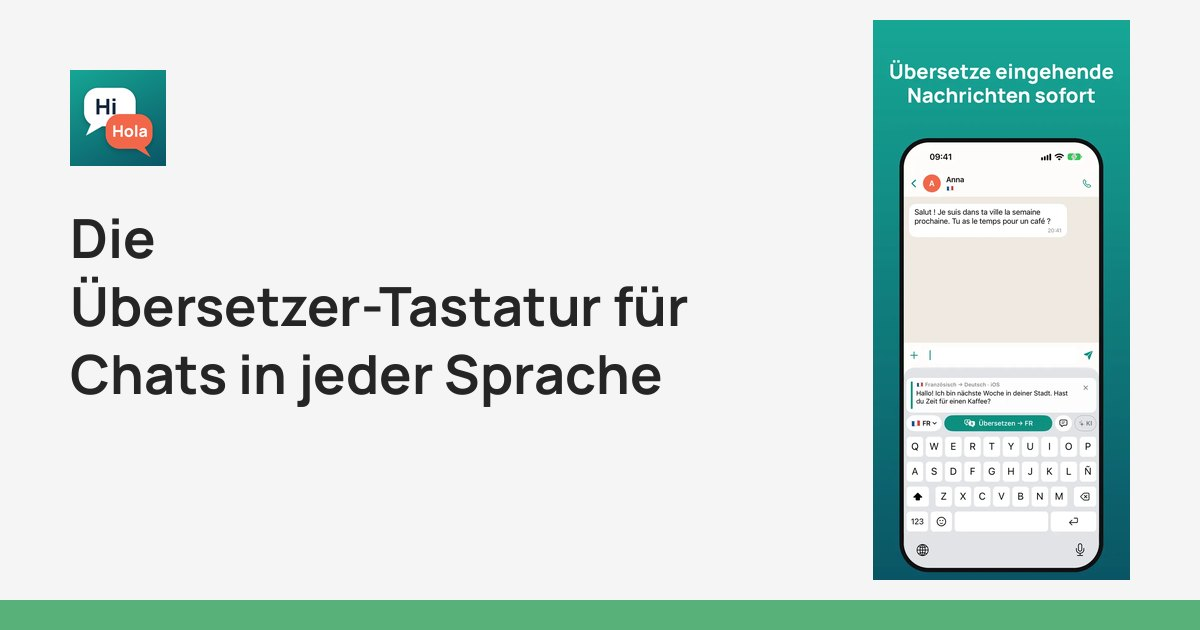
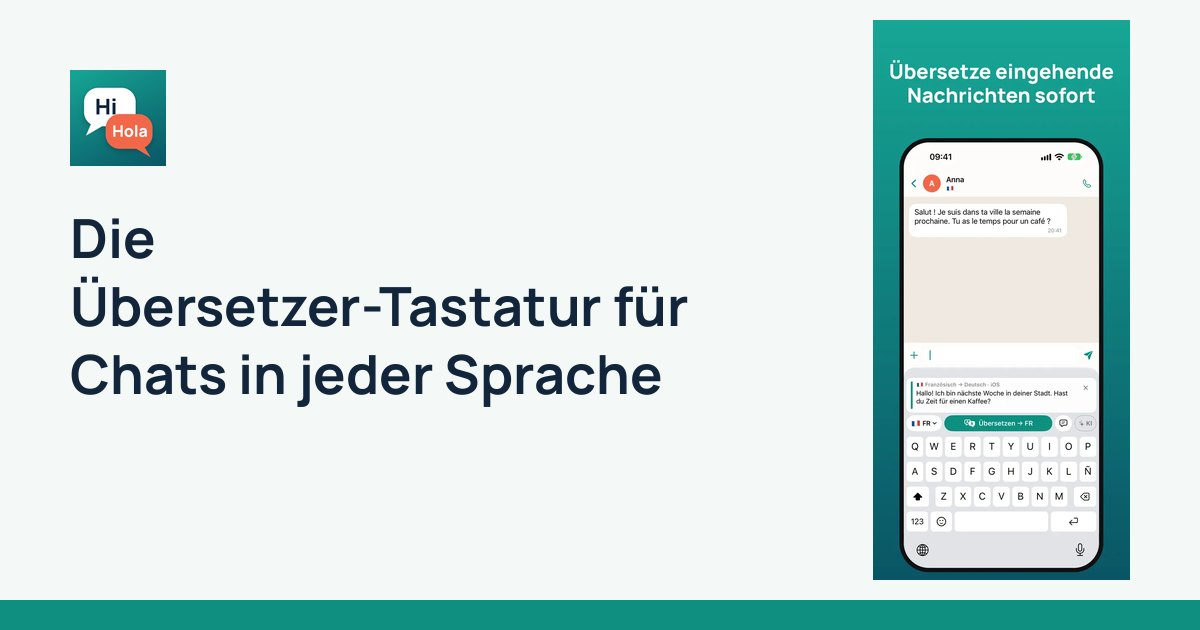
Colores de la app (laguna) en lugar del verde de TripStop

Changed region(s): [[0.0, 0.9349, 1.0, 1.0]]

diff --git a/pt/index.html b/pt/index.html
@@ -4,7 +4,7 @@
 <title>Teclado tradutor para iPhone: traduza conversas enquanto escreve</title><meta name="description" content="Teclado tradutor para WhatsApp, Telegram e Instagram: leia traduzidas as mensagens que recebe e responda no seu idioma. Privado, sem anúncios. 7 dias grátis.">
 <link rel="canonical" href="https://sherpamiguel.github.io/teclado-traductor/pt/"><link rel="alternate" hreflang="en" href="https://sherpamiguel.github.io/teclado-traductor/"><link rel="alternate" hreflang="es" href="https://sherpamiguel.github.io/teclado-traductor/es/"><link rel="alternate" hreflang="fr" href="https://sherpamiguel.github.io/teclado-traductor/fr/"><link rel="alternate" hreflang="de" href="https://sherpamiguel.github.io/teclado-traductor/de/"><link rel="alternate" hreflang="it" href="https://sherpamiguel.github.io/teclado-traductor/it/"><link rel="alternate" hreflang="pt" href="https://sherpamiguel.github.io/teclado-traductor/pt/"><link rel="alternate" hreflang="nl" href="https://sherpamiguel.github.io/teclado-traductor/nl/"><link rel="alternate" hreflang="zh-Hans" href="https://sherpamiguel.github.io/teclado-traductor/zh/"><link rel="alternate" hreflang="x-default" href="https://sherpamiguel.github.io/teclado-traductor/">
 <meta name="apple-itunes-app" content="app-id=6822189721">
-<meta name="theme-color" content="#58b179"><link rel="icon" href="../icon.png">
+<meta name="theme-color" content="#0E8F80"><link rel="icon" href="../icon.png">
 <link rel="apple-touch-icon" href="../icon.png">
 <meta property="og:type" content="website"><meta property="og:url" content="https://sherpamiguel.github.io/teclado-traductor/pt/">
 <meta property="og:title" content="Teclado tradutor para iPhone: traduza conversas enquanto escreve">
@@ -16,10 +16,12 @@
 <link rel="preconnect" href="https://fonts.gstatic.com" crossorigin>
 <link href="https://fonts.googleapis.com/css2?family=Manrope:wght@400;600;800&display=swap"
 rel="stylesheet"><style>
-:root{--bg:#f5f5f5;--card:#ffffff;--ink:#252525;--soft:rgba(96,95,95,1);--line:#d3d3d3;
---primary:#58b179;--primary-strong:#59a279;--accent:#d0d947;--chip:rgba(211,211,211,.39)}
-@media (prefers-color-scheme:dark){:root{--bg:#000000;--card:#252525;--ink:#f5f5f5;
---soft:#d3d3d3;--line:#3d3d3b;--chip:#3d3d3b}}
+/* Paleta de la app (Shared/Palette.swift): laguna, menta, tinta y niebla. */
+:root{--bg:#F4F8F7;--card:#ffffff;--ink:#13253A;--soft:#5F6F82;--line:#DDE7E5;
+--primary:#0E8F80;--primary-strong:#0B7468;--on-primary:#ffffff;--chip:#DDF4EF}
+@media (prefers-color-scheme:dark){:root{--bg:#0C1620;--card:#13212E;--ink:#EAF1F7;
+--soft:#9AA9BA;--line:#22323F;--primary:#2BC4AE;--primary-strong:#2BC4AE;
+--on-primary:#0C1620;--chip:#133D37}}
 *{box-sizing:border-box}html{scroll-behavior:smooth}
 body{margin:0;background:var(--bg);color:var(--ink);font:17px/1.6 Manrope,system-ui,sans-serif}
 a{color:var(--primary-strong)}img{max-width:100%;height:auto}
@@ -51,10 +53,10 @@ section{padding:48px 0}h2{font-size:clamp(26px,4vw,36px);line-height:1.15;margin
 .step,.card,.plan{background:var(--card);border:1px solid var(--line);border-radius:20px;
 padding:22px}.step b,.card b{display:block;font-size:19px;margin-bottom:6px}
 .num{display:inline-grid;place-items:center;width:34px;height:34px;border-radius:50%;
-background:var(--primary);color:#fff;font-weight:800;margin-bottom:12px}
+background:var(--primary);color:var(--on-primary);font-weight:800;margin-bottom:12px}
 .card p,.step p{margin:0;color:var(--soft)}
 .plan{font-size:20px;font-weight:800;text-align:center}
-.plan:first-child{background:var(--primary);color:#fff;border-color:var(--primary)}
+.plan:first-child{background:var(--primary);color:var(--on-primary);border-color:var(--primary)}
 .note{color:var(--soft);margin-top:16px}
 .langs{background:var(--card);border:1px solid var(--line);border-radius:20px;padding:22px;
 margin:0;color:var(--soft)}

diff --git a/de/index.html b/de/index.html
@@ -4,7 +4,7 @@
 <title>Übersetzer-Tastatur fürs iPhone: Chats beim Tippen übersetzen</title><meta name="description" content="Übersetzer-Tastatur für WhatsApp, Telegram und Instagram: Nachrichten übersetzt lesen und in deiner Sprache antworten. Privat, ohne Werbung. 7 Tage gratis.">
 <link rel="canonical" href="https://sherpamiguel.github.io/teclado-traductor/de/"><link rel="alternate" hreflang="en" href="https://sherpamiguel.github.io/teclado-traductor/"><link rel="alternate" hreflang="es" href="https://sherpamiguel.github.io/teclado-traductor/es/"><link rel="alternate" hreflang="fr" href="https://sherpamiguel.github.io/teclado-traductor/fr/"><link rel="alternate" hreflang="de" href="https://sherpamiguel.github.io/teclado-traductor/de/"><link rel="alternate" hreflang="it" href="https://sherpamiguel.github.io/teclado-traductor/it/"><link rel="alternate" hreflang="pt" href="https://sherpamiguel.github.io/teclado-traductor/pt/"><link rel="alternate" hreflang="nl" href="https://sherpamiguel.github.io/teclado-traductor/nl/"><link rel="alternate" hreflang="zh-Hans" href="https://sherpamiguel.github.io/teclado-traductor/zh/"><link rel="alternate" hreflang="x-default" href="https://sherpamiguel.github.io/teclado-traductor/">
 <meta name="apple-itunes-app" content="app-id=6822189721">
-<meta name="theme-color" content="#58b179"><link rel="icon" href="../icon.png">
+<meta name="theme-color" content="#0E8F80"><link rel="icon" href="../icon.png">
 <link rel="apple-touch-icon" href="../icon.png">
 <meta property="og:type" content="website"><meta property="og:url" content="https://sherpamiguel.github.io/teclado-traductor/de/">
 <meta property="og:title" content="Übersetzer-Tastatur fürs iPhone: Chats beim Tippen übersetzen">
@@ -16,10 +16,12 @@
 <link rel="preconnect" href="https://fonts.gstatic.com" crossorigin>
 <link href="https://fonts.googleapis.com/css2?family=Manrope:wght@400;600;800&display=swap"
 rel="stylesheet"><style>
-:root{--bg:#f5f5f5;--card:#ffffff;--ink:#252525;--soft:rgba(96,95,95,1);--line:#d3d3d3;
---primary:#58b179;--primary-strong:#59a279;--accent:#d0d947;--chip:rgba(211,211,211,.39)}
-@media (prefers-color-scheme:dark){:root{--bg:#000000;--card:#252525;--ink:#f5f5f5;
---soft:#d3d3d3;--line:#3d3d3b;--chip:#3d3d3b}}
+/* Paleta de la app (Shared/Palette.swift): laguna, menta, tinta y niebla. */
+:root{--bg:#F4F8F7;--card:#ffffff;--ink:#13253A;--soft:#5F6F82;--line:#DDE7E5;
+--primary:#0E8F80;--primary-strong:#0B7468;--on-primary:#ffffff;--chip:#DDF4EF}
+@media (prefers-color-scheme:dark){:root{--bg:#0C1620;--card:#13212E;--ink:#EAF1F7;
+--soft:#9AA9BA;--line:#22323F;--primary:#2BC4AE;--primary-strong:#2BC4AE;
+--on-primary:#0C1620;--chip:#133D37}}
 *{box-sizing:border-box}html{scroll-behavior:smooth}
 body{margin:0;background:var(--bg);color:var(--ink);font:17px/1.6 Manrope,system-ui,sans-serif}
 a{color:var(--primary-strong)}img{max-width:100%;height:auto}
@@ -51,10 +53,10 @@ section{padding:48px 0}h2{font-size:clamp(26px,4vw,36px);line-height:1.15;margin
 .step,.card,.plan{background:var(--card);border:1px solid var(--line);border-radius:20px;
 padding:22px}.step b,.card b{display:block;font-size:19px;margin-bottom:6px}
 .num{display:inline-grid;place-items:center;width:34px;height:34px;border-radius:50%;
-background:var(--primary);color:#fff;font-weight:800;margin-bottom:12px}
+background:var(--primary);color:var(--on-primary);font-weight:800;margin-bottom:12px}
 .card p,.step p{margin:0;color:var(--soft)}
 .plan{font-size:20px;font-weight:800;text-align:center}
-.plan:first-child{background:var(--primary);color:#fff;border-color:var(--primary)}
+.plan:first-child{background:var(--primary);color:var(--on-primary);border-color:var(--primary)}
 .note{color:var(--soft);margin-top:16px}
 .langs{background:var(--card);border:1px solid var(--line);border-radius:20px;padding:22px;
 margin:0;color:var(--soft)}

diff --git a/fr/index.html b/fr/index.html
@@ -4,7 +4,7 @@
 <title>Clavier traducteur pour iPhone : traduisez vos chats en tapant</title><meta name="description" content="Clavier traducteur pour WhatsApp, Telegram et Instagram : lisez les messages reçus traduits et répondez dans votre langue. Privé, sans pub. 7 jours gratuits.">
 <link rel="canonical" href="https://sherpamiguel.github.io/teclado-traductor/fr/"><link rel="alternate" hreflang="en" href="https://sherpamiguel.github.io/teclado-traductor/"><link rel="alternate" hreflang="es" href="https://sherpamiguel.github.io/teclado-traductor/es/"><link rel="alternate" hreflang="fr" href="https://sherpamiguel.github.io/teclado-traductor/fr/"><link rel="alternate" hreflang="de" href="https://sherpamiguel.github.io/teclado-traductor/de/"><link rel="alternate" hreflang="it" href="https://sherpamiguel.github.io/teclado-traductor/it/"><link rel="alternate" hreflang="pt" href="https://sherpamiguel.github.io/teclado-traductor/pt/"><link rel="alternate" hreflang="nl" href="https://sherpamiguel.github.io/teclado-traductor/nl/"><link rel="alternate" hreflang="zh-Hans" href="https://sherpamiguel.github.io/teclado-traductor/zh/"><link rel="alternate" hreflang="x-default" href="https://sherpamiguel.github.io/teclado-traductor/">
 <meta name="apple-itunes-app" content="app-id=6822189721">
-<meta name="theme-color" content="#58b179"><link rel="icon" href="../icon.png">
+<meta name="theme-color" content="#0E8F80"><link rel="icon" href="../icon.png">
 <link rel="apple-touch-icon" href="../icon.png">
 <meta property="og:type" content="website"><meta property="og:url" content="https://sherpamiguel.github.io/teclado-traductor/fr/">
 <meta property="og:title" content="Clavier traducteur pour iPhone : traduisez vos chats en tapant">
@@ -16,10 +16,12 @@
 <link rel="preconnect" href="https://fonts.gstatic.com" crossorigin>
 <link href="https://fonts.googleapis.com/css2?family=Manrope:wght@400;600;800&display=swap"
 rel="stylesheet"><style>
-:root{--bg:#f5f5f5;--card:#ffffff;--ink:#252525;--soft:rgba(96,95,95,1);--line:#d3d3d3;
---primary:#58b179;--primary-strong:#59a279;--accent:#d0d947;--chip:rgba(211,211,211,.39)}
-@media (prefers-color-scheme:dark){:root{--bg:#000000;--card:#252525;--ink:#f5f5f5;
---soft:#d3d3d3;--line:#3d3d3b;--chip:#3d3d3b}}
+/* Paleta de la app (Shared/Palette.swift): laguna, menta, tinta y niebla. */
+:root{--bg:#F4F8F7;--card:#ffffff;--ink:#13253A;--soft:#5F6F82;--line:#DDE7E5;
+--primary:#0E8F80;--primary-strong:#0B7468;--on-primary:#ffffff;--chip:#DDF4EF}
+@media (prefers-color-scheme:dark){:root{--bg:#0C1620;--card:#13212E;--ink:#EAF1F7;
+--soft:#9AA9BA;--line:#22323F;--primary:#2BC4AE;--primary-strong:#2BC4AE;
+--on-primary:#0C1620;--chip:#133D37}}
 *{box-sizing:border-box}html{scroll-behavior:smooth}
 body{margin:0;background:var(--bg);color:var(--ink);font:17px/1.6 Manrope,system-ui,sans-serif}
 a{color:var(--primary-strong)}img{max-width:100%;height:auto}
@@ -51,10 +53,10 @@ section{padding:48px 0}h2{font-size:clamp(26px,4vw,36px);line-height:1.15;margin
 .step,.card,.plan{background:var(--card);border:1px solid var(--line);border-radius:20px;
 padding:22px}.step b,.card b{display:block;font-size:19px;margin-bottom:6px}
 .num{display:inline-grid;place-items:center;width:34px;height:34px;border-radius:50%;
-background:var(--primary);color:#fff;font-weight:800;margin-bottom:12px}
+background:var(--primary);color:var(--on-primary);font-weight:800;margin-bottom:12px}
 .card p,.step p{margin:0;color:var(--soft)}
 .plan{font-size:20px;font-weight:800;text-align:center}
-.plan:first-child{background:var(--primary);color:#fff;border-color:var(--primary)}
+.plan:first-child{background:var(--primary);color:var(--on-primary);border-color:var(--primary)}
 .note{color:var(--soft);margin-top:16px}
 .langs{background:var(--card);border:1px solid var(--line);border-radius:20px;padding:22px;
 margin:0;color:var(--soft)}

diff --git a/it/index.html b/it/index.html
@@ -4,7 +4,7 @@
 <title>Tastiera traduttore per iPhone: traduci le chat mentre scrivi</title><meta name="description" content="Tastiera traduttore per WhatsApp, Telegram e Instagram: leggi tradotto ciò che ricevi e rispondi nella tua lingua. Privata, senza pubblicità. 7 giorni gratis.">
 <link rel="canonical" href="https://sherpamiguel.github.io/teclado-traductor/it/"><link rel="alternate" hreflang="en" href="https://sherpamiguel.github.io/teclado-traductor/"><link rel="alternate" hreflang="es" href="https://sherpamiguel.github.io/teclado-traductor/es/"><link rel="alternate" hreflang="fr" href="https://sherpamiguel.github.io/teclado-traductor/fr/"><link rel="alternate" hreflang="de" href="https://sherpamiguel.github.io/teclado-traductor/de/"><link rel="alternate" hreflang="it" href="https://sherpamiguel.github.io/teclado-traductor/it/"><link rel="alternate" hreflang="pt" href="https://sherpamiguel.github.io/teclado-traductor/pt/"><link rel="alternate" hreflang="nl" href="https://sherpamiguel.github.io/teclado-traductor/nl/"><link rel="alternate" hreflang="zh-Hans" href="https://sherpamiguel.github.io/teclado-traductor/zh/"><link rel="alternate" hreflang="x-default" href="https://sherpamiguel.github.io/teclado-traductor/">
 <meta name="apple-itunes-app" content="app-id=6822189721">
-<meta name="theme-color" content="#58b179"><link rel="icon" href="../icon.png">
+<meta name="theme-color" content="#0E8F80"><link rel="icon" href="../icon.png">
 <link rel="apple-touch-icon" href="../icon.png">
 <meta property="og:type" content="website"><meta property="og:url" content="https://sherpamiguel.github.io/teclado-traductor/it/">
 <meta property="og:title" content="Tastiera traduttore per iPhone: traduci le chat mentre scrivi">
@@ -16,10 +16,12 @@
 <link rel="preconnect" href="https://fonts.gstatic.com" crossorigin>
 <link href="https://fonts.googleapis.com/css2?family=Manrope:wght@400;600;800&display=swap"
 rel="stylesheet"><style>
-:root{--bg:#f5f5f5;--card:#ffffff;--ink:#252525;--soft:rgba(96,95,95,1);--line:#d3d3d3;
---primary:#58b179;--primary-strong:#59a279;--accent:#d0d947;--chip:rgba(211,211,211,.39)}
-@media (prefers-color-scheme:dark){:root{--bg:#000000;--card:#252525;--ink:#f5f5f5;
---soft:#d3d3d3;--line:#3d3d3b;--chip:#3d3d3b}}
+/* Paleta de la app (Shared/Palette.swift): laguna, menta, tinta y niebla. */
+:root{--bg:#F4F8F7;--card:#ffffff;--ink:#13253A;--soft:#5F6F82;--line:#DDE7E5;
+--primary:#0E8F80;--primary-strong:#0B7468;--on-primary:#ffffff;--chip:#DDF4EF}
+@media (prefers-color-scheme:dark){:root{--bg:#0C1620;--card:#13212E;--ink:#EAF1F7;
+--soft:#9AA9BA;--line:#22323F;--primary:#2BC4AE;--primary-strong:#2BC4AE;
+--on-primary:#0C1620;--chip:#133D37}}
 *{box-sizing:border-box}html{scroll-behavior:smooth}
 body{margin:0;background:var(--bg);color:var(--ink);font:17px/1.6 Manrope,system-ui,sans-serif}
 a{color:var(--primary-strong)}img{max-width:100%;height:auto}
@@ -51,10 +53,10 @@ section{padding:48px 0}h2{font-size:clamp(26px,4vw,36px);line-height:1.15;margin
 .step,.card,.plan{background:var(--card);border:1px solid var(--line);border-radius:20px;
 padding:22px}.step b,.card b{display:block;font-size:19px;margin-bottom:6px}
 .num{display:inline-grid;place-items:center;width:34px;height:34px;border-radius:50%;
-background:var(--primary);color:#fff;font-weight:800;margin-bottom:12px}
+background:var(--primary);color:var(--on-primary);font-weight:800;margin-bottom:12px}
 .card p,.step p{margin:0;color:var(--soft)}
 .plan{font-size:20px;font-weight:800;text-align:center}
-.plan:first-child{background:var(--primary);color:#fff;border-color:var(--primary)}
+.plan:first-child{background:var(--primary);color:var(--on-primary);border-color:var(--primary)}
 .note{color:var(--soft);margin-top:16px}
 .langs{background:var(--card);border:1px solid var(--line);border-radius:20px;padding:22px;
 margin:0;color:var(--soft)}

diff --git a/nl/index.html b/nl/index.html
@@ -4,7 +4,7 @@
 <title>Vertaaltoetsenbord voor iPhone: vertaal chats terwijl je typt</title><meta name="description" content="Vertaaltoetsenbord voor WhatsApp, Telegram en Instagram: lees ontvangen berichten vertaald en antwoord in je eigen taal. Privé, zonder reclame. 7 dagen gratis.">
 <link rel="canonical" href="https://sherpamiguel.github.io/teclado-traductor/nl/"><link rel="alternate" hreflang="en" href="https://sherpamiguel.github.io/teclado-traductor/"><link rel="alternate" hreflang="es" href="https://sherpamiguel.github.io/teclado-traductor/es/"><link rel="alternate" hreflang="fr" href="https://sherpamiguel.github.io/teclado-traductor/fr/"><link rel="alternate" hreflang="de" href="https://sherpamiguel.github.io/teclado-traductor/de/"><link rel="alternate" hreflang="it" href="https://sherpamiguel.github.io/teclado-traductor/it/"><link rel="alternate" hreflang="pt" href="https://sherpamiguel.github.io/teclado-traductor/pt/"><link rel="alternate" hreflang="nl" href="https://sherpamiguel.github.io/teclado-traductor/nl/"><link rel="alternate" hreflang="zh-Hans" href="https://sherpamiguel.github.io/teclado-traductor/zh/"><link rel="alternate" hreflang="x-default" href="https://sherpamiguel.github.io/teclado-traductor/">
 <meta name="apple-itunes-app" content="app-id=6822189721">
-<meta name="theme-color" content="#58b179"><link rel="icon" href="../icon.png">
+<meta name="theme-color" content="#0E8F80"><link rel="icon" href="../icon.png">
 <link rel="apple-touch-icon" href="../icon.png">
 <meta property="og:type" content="website"><meta property="og:url" content="https://sherpamiguel.github.io/teclado-traductor/nl/">
 <meta property="og:title" content="Vertaaltoetsenbord voor iPhone: vertaal chats terwijl je typt">
@@ -16,10 +16,12 @@
 <link rel="preconnect" href="https://fonts.gstatic.com" crossorigin>
 <link href="https://fonts.googleapis.com/css2?family=Manrope:wght@400;600;800&display=swap"
 rel="stylesheet"><style>
-:root{--bg:#f5f5f5;--card:#ffffff;--ink:#252525;--soft:rgba(96,95,95,1);--line:#d3d3d3;
---primary:#58b179;--primary-strong:#59a279;--accent:#d0d947;--chip:rgba(211,211,211,.39)}
-@media (prefers-color-scheme:dark){:root{--bg:#000000;--card:#252525;--ink:#f5f5f5;
---soft:#d3d3d3;--line:#3d3d3b;--chip:#3d3d3b}}
+/* Paleta de la app (Shared/Palette.swift): laguna, menta, tinta y niebla. */
+:root{--bg:#F4F8F7;--card:#ffffff;--ink:#13253A;--soft:#5F6F82;--line:#DDE7E5;
+--primary:#0E8F80;--primary-strong:#0B7468;--on-primary:#ffffff;--chip:#DDF4EF}
+@media (prefers-color-scheme:dark){:root{--bg:#0C1620;--card:#13212E;--ink:#EAF1F7;
+--soft:#9AA9BA;--line:#22323F;--primary:#2BC4AE;--primary-strong:#2BC4AE;
+--on-primary:#0C1620;--chip:#133D37}}
 *{box-sizing:border-box}html{scroll-behavior:smooth}
 body{margin:0;background:var(--bg);color:var(--ink);font:17px/1.6 Manrope,system-ui,sans-serif}
 a{color:var(--primary-strong)}img{max-width:100%;height:auto}
@@ -51,10 +53,10 @@ section{padding:48px 0}h2{font-size:clamp(26px,4vw,36px);line-height:1.15;margin
 .step,.card,.plan{background:var(--card);border:1px solid var(--line);border-radius:20px;
 padding:22px}.step b,.card b{display:block;font-size:19px;margin-bottom:6px}
 .num{display:inline-grid;place-items:center;width:34px;height:34px;border-radius:50%;
-background:var(--primary);color:#fff;font-weight:800;margin-bottom:12px}
+background:var(--primary);color:var(--on-primary);font-weight:800;margin-bottom:12px}
 .card p,.step p{margin:0;color:var(--soft)}
 .plan{font-size:20px;font-weight:800;text-align:center}
-.plan:first-child{background:var(--primary);color:#fff;border-color:var(--primary)}
+.plan:first-child{background:var(--primary);color:var(--on-primary);border-color:var(--primary)}
 .note{color:var(--soft);margin-top:16px}
 .langs{background:var(--card);border:1px solid var(--line);border-radius:20px;padding:22px;
 margin:0;color:var(--soft)}

diff --git a/zh/index.html b/zh/index.html
@@ -4,7 +4,7 @@
 <title>iPhone 翻译键盘：打字时即时翻译聊天内容</title><meta name="description" content="适用于 WhatsApp、Telegram 和 Instagram 的翻译键盘：阅读收到消息的译文，用你的语言回复。注重隐私，无广告。免费试用 7 天。">
 <link rel="canonical" href="https://sherpamiguel.github.io/teclado-traductor/zh/"><link rel="alternate" hreflang="en" href="https://sherpamiguel.github.io/teclado-traductor/"><link rel="alternate" hreflang="es" href="https://sherpamiguel.github.io/teclado-traductor/es/"><link rel="alternate" hreflang="fr" href="https://sherpamiguel.github.io/teclado-traductor/fr/"><link rel="alternate" hreflang="de" href="https://sherpamiguel.github.io/teclado-traductor/de/"><link rel="alternate" hreflang="it" href="https://sherpamiguel.github.io/teclado-traductor/it/"><link rel="alternate" hreflang="pt" href="https://sherpamiguel.github.io/teclado-traductor/pt/"><link rel="alternate" hreflang="nl" href="https://sherpamiguel.github.io/teclado-traductor/nl/"><link rel="alternate" hreflang="zh-Hans" href="https://sherpamiguel.github.io/teclado-traductor/zh/"><link rel="alternate" hreflang="x-default" href="https://sherpamiguel.github.io/teclado-traductor/">
 <meta name="apple-itunes-app" content="app-id=6822189721">
-<meta name="theme-color" content="#58b179"><link rel="icon" href="../icon.png">
+<meta name="theme-color" content="#0E8F80"><link rel="icon" href="../icon.png">
 <link rel="apple-touch-icon" href="../icon.png">
 <meta property="og:type" content="website"><meta property="og:url" content="https://sherpamiguel.github.io/teclado-traductor/zh/">
 <meta property="og:title" content="iPhone 翻译键盘：打字时即时翻译聊天内容">
@@ -16,10 +16,12 @@
 <link rel="preconnect" href="https://fonts.gstatic.com" crossorigin>
 <link href="https://fonts.googleapis.com/css2?family=Manrope:wght@400;600;800&display=swap"
 rel="stylesheet"><style>
-:root{--bg:#f5f5f5;--card:#ffffff;--ink:#252525;--soft:rgba(96,95,95,1);--line:#d3d3d3;
---primary:#58b179;--primary-strong:#59a279;--accent:#d0d947;--chip:rgba(211,211,211,.39)}
-@media (prefers-color-scheme:dark){:root{--bg:#000000;--card:#252525;--ink:#f5f5f5;
---soft:#d3d3d3;--line:#3d3d3b;--chip:#3d3d3b}}
+/* Paleta de la app (Shared/Palette.swift): laguna, menta, tinta y niebla. */
+:root{--bg:#F4F8F7;--card:#ffffff;--ink:#13253A;--soft:#5F6F82;--line:#DDE7E5;
+--primary:#0E8F80;--primary-strong:#0B7468;--on-primary:#ffffff;--chip:#DDF4EF}
+@media (prefers-color-scheme:dark){:root{--bg:#0C1620;--card:#13212E;--ink:#EAF1F7;
+--soft:#9AA9BA;--line:#22323F;--primary:#2BC4AE;--primary-strong:#2BC4AE;
+--on-primary:#0C1620;--chip:#133D37}}
 *{box-sizing:border-box}html{scroll-behavior:smooth}
 body{margin:0;background:var(--bg);color:var(--ink);font:17px/1.6 Manrope,system-ui,sans-serif}
 a{color:var(--primary-strong)}img{max-width:100%;height:auto}
@@ -51,10 +53,10 @@ section{padding:48px 0}h2{font-size:clamp(26px,4vw,36px);line-height:1.15;margin
 .step,.card,.plan{background:var(--card);border:1px solid var(--line);border-radius:20px;
 padding:22px}.step b,.card b{display:block;font-size:19px;margin-bottom:6px}
 .num{display:inline-grid;place-items:center;width:34px;height:34px;border-radius:50%;
-background:var(--primary);color:#fff;font-weight:800;margin-bottom:12px}
+background:var(--primary);color:var(--on-primary);font-weight:800;margin-bottom:12px}
 .card p,.step p{margin:0;color:var(--soft)}
 .plan{font-size:20px;font-weight:800;text-align:center}
-.plan:first-child{background:var(--primary);color:#fff;border-color:var(--primary)}
+.plan:first-child{background:var(--primary);color:var(--on-primary);border-color:var(--primary)}
 .note{color:var(--soft);margin-top:16px}
 .langs{background:var(--card);border:1px solid var(--line);border-radius:20px;padding:22px;
 margin:0;color:var(--soft)}

diff --git a/es/index.html b/es/index.html
@@ -4,7 +4,7 @@
 <title>Teclado traductor para iPhone: traduce tus chats al escribir</title><meta name="description" content="Teclado traductor para WhatsApp, Telegram e Instagram: lee traducido lo que te escriben y responde en tu idioma. Privado, sin anuncios. 7 días gratis.">
 <link rel="canonical" href="https://sherpamiguel.github.io/teclado-traductor/es/"><link rel="alternate" hreflang="en" href="https://sherpamiguel.github.io/teclado-traductor/"><link rel="alternate" hreflang="es" href="https://sherpamiguel.github.io/teclado-traductor/es/"><link rel="alternate" hreflang="fr" href="https://sherpamiguel.github.io/teclado-traductor/fr/"><link rel="alternate" hreflang="de" href="https://sherpamiguel.github.io/teclado-traductor/de/"><link rel="alternate" hreflang="it" href="https://sherpamiguel.github.io/teclado-traductor/it/"><link rel="alternate" hreflang="pt" href="https://sherpamiguel.github.io/teclado-traductor/pt/"><link rel="alternate" hreflang="nl" href="https://sherpamiguel.github.io/teclado-traductor/nl/"><link rel="alternate" hreflang="zh-Hans" href="https://sherpamiguel.github.io/teclado-traductor/zh/"><link rel="alternate" hreflang="x-default" href="https://sherpamiguel.github.io/teclado-traductor/">
 <meta name="apple-itunes-app" content="app-id=6822189721">
-<meta name="theme-color" content="#58b179"><link rel="icon" href="../icon.png">
+<meta name="theme-color" content="#0E8F80"><link rel="icon" href="../icon.png">
 <link rel="apple-touch-icon" href="../icon.png">
 <meta property="og:type" content="website"><meta property="og:url" content="https://sherpamiguel.github.io/teclado-traductor/es/">
 <meta property="og:title" content="Teclado traductor para iPhone: traduce tus chats al escribir">
@@ -16,10 +16,12 @@
 <link rel="preconnect" href="https://fonts.gstatic.com" crossorigin>
 <link href="https://fonts.googleapis.com/css2?family=Manrope:wght@400;600;800&display=swap"
 rel="stylesheet"><style>
-:root{--bg:#f5f5f5;--card:#ffffff;--ink:#252525;--soft:rgba(96,95,95,1);--line:#d3d3d3;
---primary:#58b179;--primary-strong:#59a279;--accent:#d0d947;--chip:rgba(211,211,211,.39)}
-@media (prefers-color-scheme:dark){:root{--bg:#000000;--card:#252525;--ink:#f5f5f5;
---soft:#d3d3d3;--line:#3d3d3b;--chip:#3d3d3b}}
+/* Paleta de la app (Shared/Palette.swift): laguna, menta, tinta y niebla. */
+:root{--bg:#F4F8F7;--card:#ffffff;--ink:#13253A;--soft:#5F6F82;--line:#DDE7E5;
+--primary:#0E8F80;--primary-strong:#0B7468;--on-primary:#ffffff;--chip:#DDF4EF}
+@media (prefers-color-scheme:dark){:root{--bg:#0C1620;--card:#13212E;--ink:#EAF1F7;
+--soft:#9AA9BA;--line:#22323F;--primary:#2BC4AE;--primary-strong:#2BC4AE;
+--on-primary:#0C1620;--chip:#133D37}}
 *{box-sizing:border-box}html{scroll-behavior:smooth}
 body{margin:0;background:var(--bg);color:var(--ink);font:17px/1.6 Manrope,system-ui,sans-serif}
 a{color:var(--primary-strong)}img{max-width:100%;height:auto}
@@ -51,10 +53,10 @@ section{padding:48px 0}h2{font-size:clamp(26px,4vw,36px);line-height:1.15;margin
 .step,.card,.plan{background:var(--card);border:1px solid var(--line);border-radius:20px;
 padding:22px}.step b,.card b{display:block;font-size:19px;margin-bottom:6px}
 .num{display:inline-grid;place-items:center;width:34px;height:34px;border-radius:50%;
-background:var(--primary);color:#fff;font-weight:800;margin-bottom:12px}
+background:var(--primary);color:var(--on-primary);font-weight:800;margin-bottom:12px}
 .card p,.step p{margin:0;color:var(--soft)}
 .plan{font-size:20px;font-weight:800;text-align:center}
-.plan:first-child{background:var(--primary);color:#fff;border-color:var(--primary)}
+.plan:first-child{background:var(--primary);color:var(--on-primary);border-color:var(--primary)}
 .note{color:var(--soft);margin-top:16px}
 .langs{background:var(--card);border:1px solid var(--line);border-radius:20px;padding:22px;
 margin:0;color:var(--soft)}

diff --git a/index.html b/index.html
@@ -4,7 +4,7 @@
 <title>Translator Keyboard for iPhone: translate chats as you type</title><meta name="description" content="Translator keyboard for WhatsApp, Telegram and Instagram: read incoming messages translated and reply in your language. Private, no ads. 7 days free.">
 <link rel="canonical" href="https://sherpamiguel.github.io/teclado-traductor/"><link rel="alternate" hreflang="en" href="https://sherpamiguel.github.io/teclado-traductor/"><link rel="alternate" hreflang="es" href="https://sherpamiguel.github.io/teclado-traductor/es/"><link rel="alternate" hreflang="fr" href="https://sherpamiguel.github.io/teclado-traductor/fr/"><link rel="alternate" hreflang="de" href="https://sherpamiguel.github.io/teclado-traductor/de/"><link rel="alternate" hreflang="it" href="https://sherpamiguel.github.io/teclado-traductor/it/"><link rel="alternate" hreflang="pt" href="https://sherpamiguel.github.io/teclado-traductor/pt/"><link rel="alternate" hreflang="nl" href="https://sherpamiguel.github.io/teclado-traductor/nl/"><link rel="alternate" hreflang="zh-Hans" href="https://sherpamiguel.github.io/teclado-traductor/zh/"><link rel="alternate" hreflang="x-default" href="https://sherpamiguel.github.io/teclado-traductor/">
 <meta name="apple-itunes-app" content="app-id=6822189721">
-<meta name="theme-color" content="#58b179"><link rel="icon" href="icon.png">
+<meta name="theme-color" content="#0E8F80"><link rel="icon" href="icon.png">
 <link rel="apple-touch-icon" href="icon.png">
 <meta property="og:type" content="website"><meta property="og:url" content="https://sherpamiguel.github.io/teclado-traductor/">
 <meta property="og:title" content="Translator Keyboard for iPhone: translate chats as you type">
@@ -16,10 +16,12 @@
 <link rel="preconnect" href="https://fonts.gstatic.com" crossorigin>
 <link href="https://fonts.googleapis.com/css2?family=Manrope:wght@400;600;800&display=swap"
 rel="stylesheet"><style>
-:root{--bg:#f5f5f5;--card:#ffffff;--ink:#252525;--soft:rgba(96,95,95,1);--line:#d3d3d3;
---primary:#58b179;--primary-strong:#59a279;--accent:#d0d947;--chip:rgba(211,211,211,.39)}
-@media (prefers-color-scheme:dark){:root{--bg:#000000;--card:#252525;--ink:#f5f5f5;
---soft:#d3d3d3;--line:#3d3d3b;--chip:#3d3d3b}}
+/* Paleta de la app (Shared/Palette.swift): laguna, menta, tinta y niebla. */
+:root{--bg:#F4F8F7;--card:#ffffff;--ink:#13253A;--soft:#5F6F82;--line:#DDE7E5;
+--primary:#0E8F80;--primary-strong:#0B7468;--on-primary:#ffffff;--chip:#DDF4EF}
+@media (prefers-color-scheme:dark){:root{--bg:#0C1620;--card:#13212E;--ink:#EAF1F7;
+--soft:#9AA9BA;--line:#22323F;--primary:#2BC4AE;--primary-strong:#2BC4AE;
+--on-primary:#0C1620;--chip:#133D37}}
 *{box-sizing:border-box}html{scroll-behavior:smooth}
 body{margin:0;background:var(--bg);color:var(--ink);font:17px/1.6 Manrope,system-ui,sans-serif}
 a{color:var(--primary-strong)}img{max-width:100%;height:auto}
@@ -51,10 +53,10 @@ section{padding:48px 0}h2{font-size:clamp(26px,4vw,36px);line-height:1.15;margin
 .step,.card,.plan{background:var(--card);border:1px solid var(--line);border-radius:20px;
 padding:22px}.step b,.card b{display:block;font-size:19px;margin-bottom:6px}
 .num{display:inline-grid;place-items:center;width:34px;height:34px;border-radius:50%;
-background:var(--primary);color:#fff;font-weight:800;margin-bottom:12px}
+background:var(--primary);color:var(--on-primary);font-weight:800;margin-bottom:12px}
 .card p,.step p{margin:0;color:var(--soft)}
 .plan{font-size:20px;font-weight:800;text-align:center}
-.plan:first-child{background:var(--primary);color:#fff;border-color:var(--primary)}
+.plan:first-child{background:var(--primary);color:var(--on-primary);border-color:var(--primary)}
 .note{color:var(--soft);margin-top:16px}
 .langs{background:var(--card);border:1px solid var(--line);border-radius:20px;padding:22px;
 margin:0;color:var(--soft)}

diff --git a/landing.py b/landing.py
@@ -16,10 +16,12 @@ SHOTS = ["incoming", "outgoing", "templates", "languages"]
 APP_FONTS = os.path.expanduser("~/Documents/GitHub/teclado-traductor-chat-ia/App/Fonts")
 
 CSS = """
-:root{--bg:#f5f5f5;--card:#ffffff;--ink:#252525;--soft:rgba(96,95,95,1);--line:#d3d3d3;
---primary:#58b179;--primary-strong:#59a279;--accent:#d0d947;--chip:rgba(211,211,211,.39)}
-@media (prefers-color-scheme:dark){:root{--bg:#000000;--card:#252525;--ink:#f5f5f5;
---soft:#d3d3d3;--line:#3d3d3b;--chip:#3d3d3b}}
+/* Paleta de la app (Shared/Palette.swift): laguna, menta, tinta y niebla. */
+:root{--bg:#F4F8F7;--card:#ffffff;--ink:#13253A;--soft:#5F6F82;--line:#DDE7E5;
+--primary:#0E8F80;--primary-strong:#0B7468;--on-primary:#ffffff;--chip:#DDF4EF}
+@media (prefers-color-scheme:dark){:root{--bg:#0C1620;--card:#13212E;--ink:#EAF1F7;
+--soft:#9AA9BA;--line:#22323F;--primary:#2BC4AE;--primary-strong:#2BC4AE;
+--on-primary:#0C1620;--chip:#133D37}}
 *{box-sizing:border-box}html{scroll-behavior:smooth}
 body{margin:0;background:var(--bg);color:var(--ink);font:17px/1.6 Manrope,system-ui,sans-serif}
 a{color:var(--primary-strong)}img{max-width:100%;height:auto}
@@ -51,10 +53,10 @@ section{padding:48px 0}h2{font-size:clamp(26px,4vw,36px);line-height:1.15;margin
 .step,.card,.plan{background:var(--card);border:1px solid var(--line);border-radius:20px;
 padding:22px}.step b,.card b{display:block;font-size:19px;margin-bottom:6px}
 .num{display:inline-grid;place-items:center;width:34px;height:34px;border-radius:50%;
-background:var(--primary);color:#fff;font-weight:800;margin-bottom:12px}
+background:var(--primary);color:var(--on-primary);font-weight:800;margin-bottom:12px}
 .card p,.step p{margin:0;color:var(--soft)}
 .plan{font-size:20px;font-weight:800;text-align:center}
-.plan:first-child{background:var(--primary);color:#fff;border-color:var(--primary)}
+.plan:first-child{background:var(--primary);color:var(--on-primary);border-color:var(--primary)}
 .note{color:var(--soft);margin-top:16px}
 .langs{background:var(--card);border:1px solid var(--line);border-radius:20px;padding:22px;
 margin:0;color:var(--soft)}
@@ -87,9 +89,9 @@ def store_url(c):
 
 def og_image(lang, c):
     """Tarjeta de 1200 × 630 para compartir: titular a la izquierda y captura a la derecha."""
-    card = Image.new("RGB", (1200, 630), "#f5f5f5")
+    card = Image.new("RGB", (1200, 630), "#F4F8F7")
     draw = ImageDraw.Draw(card)
-    draw.rectangle((0, 600, 1200, 630), fill="#58b179")
+    draw.rectangle((0, 600, 1200, 630), fill="#0E8F80")
     shot = Image.open(f"img/{lang}/incoming.webp").convert("RGB")
     shot = shot.resize((int(shot.width * 560 / shot.height), 560), Image.LANCZOS)
     card.paste(shot, (1200 - shot.width - 70, 20))
@@ -113,7 +115,7 @@ def og_image(lang, c):
     lines.append(line)
     y = 200
     for text in lines[:5]:
-        draw.text((70, y), text, font=font, fill="#252525")
+        draw.text((70, y), text, font=font, fill="#13253A")
         y += 68
     card.save(f"img/og-{lang}.jpg", quality=86)
 
@@ -185,7 +187,7 @@ def page(lang, content, help_steps, email):
 <title>{esc(c["title"])}</title><meta name="description" content="{esc(c["description"])}">
 <link rel="canonical" href="{url(lang)}">{alternates}
 <meta name="apple-itunes-app" content="app-id={APP_ID}">
-<meta name="theme-color" content="#58b179"><link rel="icon" href="{root}icon.png">
+<meta name="theme-color" content="#0E8F80"><link rel="icon" href="{root}icon.png">
 <link rel="apple-touch-icon" href="{root}icon.png">
 <meta property="og:type" content="website"><meta property="og:url" content="{url(lang)}">
 <meta property="og:title" content="{esc(c["title"])}">
